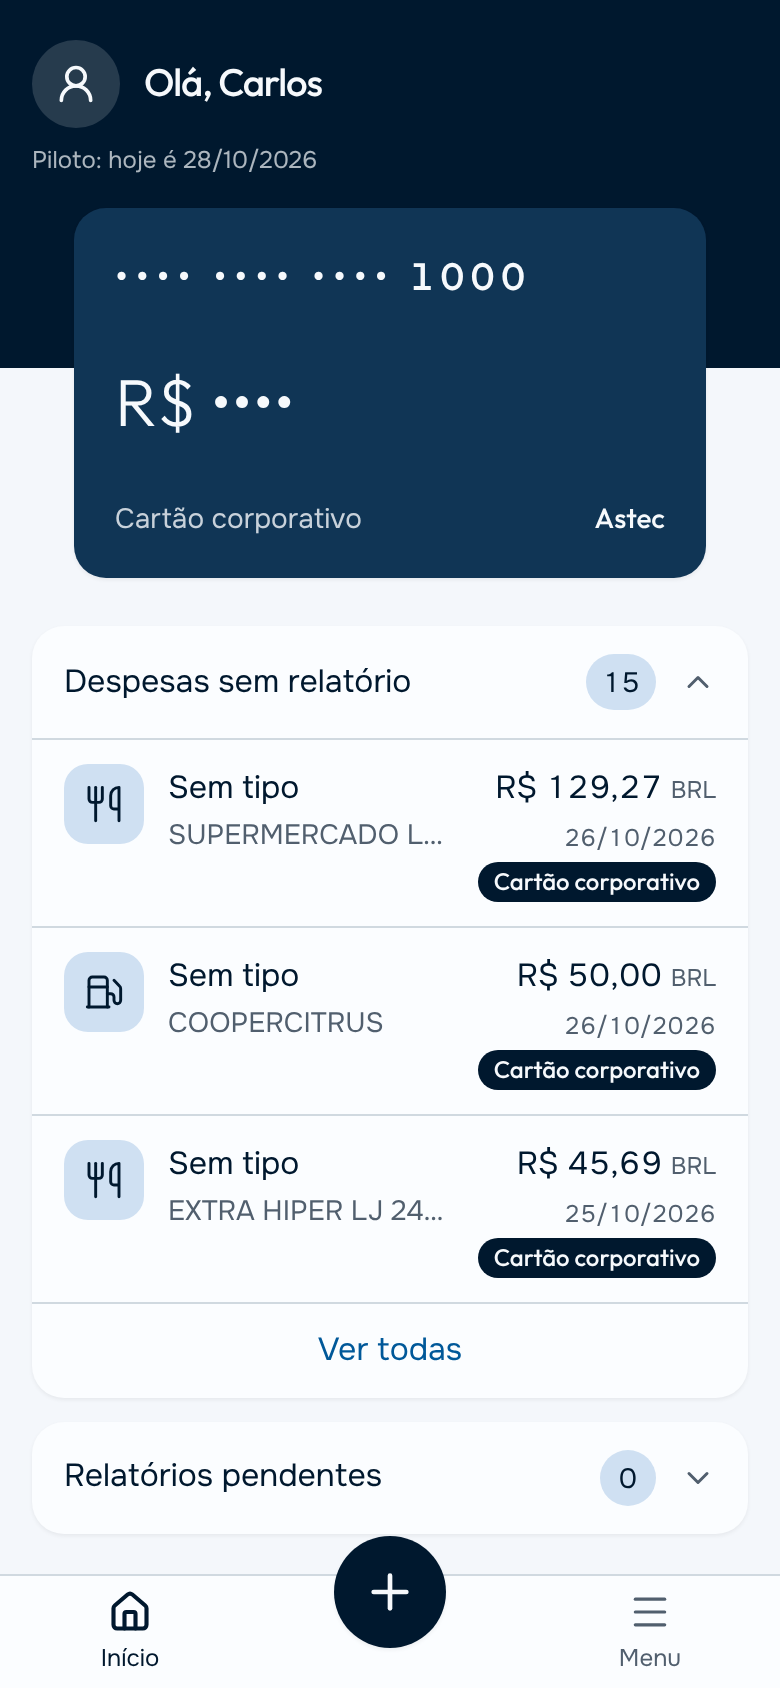
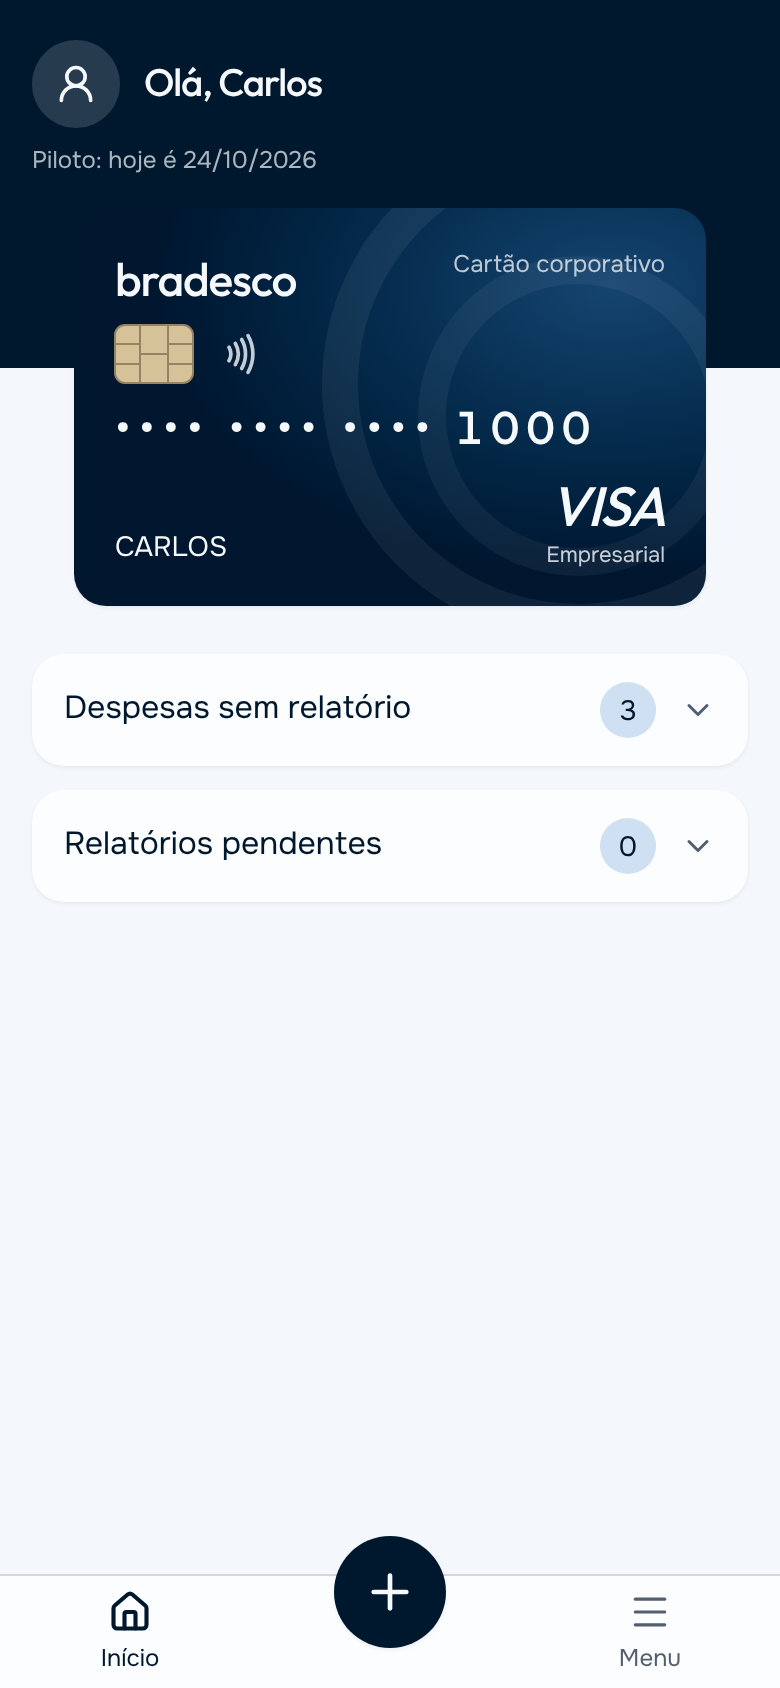
Cartão Visa Empresarial Bradesco na tela inicial
O cartão da tela inicial passa a lembrar o cartão real da empresa (Visa
Empresarial Bradesco): fundo azul com os arcos do desenho, chip, símbolo de
aproximação, os 4 últimos dígitos, o nome do titular e a marca Visa
Empresarial. Sai o saldo mascarado, que o arquivo do banco não traz.

Claude-Session: https://claude.ai/code/session_01E9PYg9zAUxJYvy8RbZUvsC

diff --git a/src/components/mobile/corporate-card.tsx b/src/components/mobile/corporate-card.tsx
@@ -1,0 +1,41 @@
+import { Nfc } from "lucide-react";
+
+/** O cartão Visa Empresarial Bradesco, desenhado com os dados que temos: os 4 finais e o titular. */
+export function CorporateCard({ last4, holder }: { last4: string; holder: string }) {
+  return (
+    <figure
+      aria-label={`Cartão Visa Empresarial Bradesco, final ${last4}, ${holder}`}
+      className="relative mx-auto flex aspect-[1.586/1] w-[88%] flex-col justify-between overflow-hidden rounded-card bg-[radial-gradient(120%_120%_at_85%_20%,var(--color-card-light),var(--color-card-deep)_60%)] p-5 text-accent-ink shadow-card"
+    >
+      {/* arcos do desenho do cartão, só decoração */}
+      <span aria-hidden="true" className="pointer-events-none absolute -right-16 -top-10 h-64 w-64 rounded-pill border-[18px] border-white/[0.06]" />
+      <span aria-hidden="true" className="pointer-events-none absolute -right-4 top-6 h-40 w-40 rounded-pill border-[14px] border-white/[0.05]" />
+
+      <div className="relative flex items-start justify-between">
+        <span className="font-display text-xl font-medium tracking-tight">bradesco</span>
+        <span className="text-xs opacity-75">Cartão corporativo</span>
+      </div>
+
+      <div className="relative flex items-center gap-3">
+        <svg aria-hidden="true" viewBox="0 0 40 30" className="h-8 w-10">
+          <rect x="0.5" y="0.5" width="39" height="29" rx="5" fill="var(--color-chip)" stroke="var(--color-chip-line)" />
+          <path d="M13 0.5v29M27 0.5v29M0.5 10h12.5M27 10h12.5M0.5 20h12.5M27 20h12.5M13 15h14" stroke="var(--color-chip-line)" fill="none" />
+        </svg>
+        <Nfc size={22} aria-hidden="true" className="opacity-80" />
+      </div>
+
+      <p className="relative font-display text-xl tabular-nums tracking-[0.18em]">
+        <span aria-hidden="true">••••&nbsp;••••&nbsp;••••&nbsp;</span>
+        {last4}
+      </p>
+
+      <div className="relative flex items-end justify-between gap-3">
+        <span className="min-w-0 truncate text-sm">{holder}</span>
+        <span className="flex shrink-0 flex-col items-end leading-none">
+          <span className="font-display text-2xl font-medium italic tracking-tight">VISA</span>
+          <span className="text-[11px] opacity-80">Empresarial</span>
+        </span>
+      </div>
+    </figure>
+  );
+}

diff --git a/src/app/app/page.tsx b/src/app/app/page.tsx
@@ -9,6 +9,7 @@ import { listCategories, listEmployeeExpenses } from "@/lib/expenses";
 import { listEmployeeReports } from "@/lib/reports";
 import { date } from "@/lib/format";
 import { ExpenseRow, ReportRow, SectionCard } from "@/components/mobile/rows";
+import { CorporateCard } from "@/components/mobile/corporate-card";
 
 export default async function EmployeeHome() {
   const user = await requireUser();
@@ -36,13 +37,8 @@ export default async function EmployeeHome() {
       </header>
 
       {card ? (
-        <div className="relative -mt-20 mx-auto flex aspect-[1.7/1] w-[88%] flex-col justify-between rounded-card bg-accent-deep p-5 text-accent-ink shadow-card">
-          <span className="font-display text-lg tracking-[0.2em] tabular-nums">•••• •••• •••• {card.last4}</span>
-          <span className="figure text-2xl tracking-normal">R$ ••••</span>
-          <span className="flex items-end justify-between text-sm">
-            <span className="opacity-80">Cartão corporativo</span>
-            <span className="font-display font-medium">Astec</span>
-          </span>
+        <div className="relative -mt-20">
+          <CorporateCard last4={card.last4} holder={card.holderName} />
         </div>
       ) : (
         <div className="-mt-20 h-16" />

diff --git a/src/app/tokens.css b/src/app/tokens.css
@@ -31,6 +31,10 @@
   --color-focus: oklch(52% 0.14 248);
   --color-link: oklch(45% 0.13 248);
   --color-surface: oklch(99.4% 0.003 248);
+  --color-card-light: oklch(38% 0.09 250);
+  --color-card-deep: oklch(20% 0.06 250);
+  --color-chip: oklch(82% 0.06 85);
+  --color-chip-line: oklch(62% 0.05 85);
   --color-error-soft: oklch(94% 0.03 27);
   --font-display: var(--font-outfit), "Outfit", ui-sans-serif, system-ui, sans-serif;
   --font-body: var(--font-onest), "Onest", ui-sans-serif, sans-serif;
